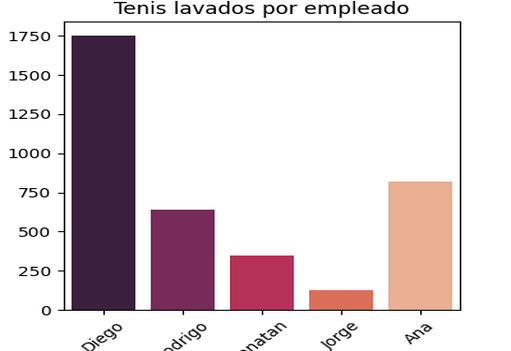
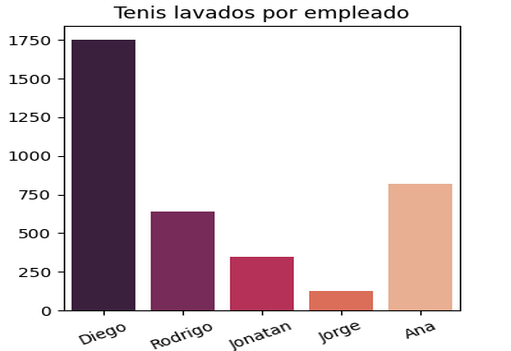
Fin

diff --git a/main.py b/main.py
@@ -381,12 +381,12 @@ class DashboardScreen(QMainWindow):
         df = pd.DataFrame(result)
         df.columns = ["Nombre", "Apellido", "TotalServicios"]
         plt.figure (figsize=(5,5))
-        plt.xticks(rotation=-45)
+        plt.xticks(rotation=-20)
         plt.title("Clientes con mas servicios")
         sns.barplot(x="Nombre", y="TotalServicios", data=df, palette="rocket")
         plt.savefig("graficas/clientes5.png")
         img = Image.open("graficas/clientes5.png")
-        img = img.crop((0, 30, 500, 500))
+        img = img.crop((0, 30, 500, 480)) #
         img = img.resize((531,250), Image.LANCZOS)
         img.save("graficas/clientes5.png")
         self.clientes_graphicsView_5.setStyleSheet("background-image: url(graficas/clientes5.png);")
@@ -637,11 +637,11 @@ class DashboardScreen(QMainWindow):
         df.columns = ["Nombre", "Total"]
         plt.figure (figsize=(4,4))
         plt.title("Tenis lavados por empleado")
-        plt.xticks(rotation = 45)
+        plt.xticks(rotation = 25)
         sns.barplot(x="Nombre", y="Total", data=df, palette="rocket")
         plt.savefig("graficas/empleados4.png")  
         img = Image.open("graficas/empleados4.png")
-        img = img.crop((0, 25, 400, 400))
+        img = img.crop((0, 20, 400, 400))
         img = img.resize((resizeGrande1,resizeGrande2), Image.LANCZOS)
         img.save("graficas/empleados4.png")
         self.empleados_graphicsView_4.setStyleSheet("background-image: url(graficas/empleados4.png);")
@@ -658,14 +658,14 @@ class DashboardScreen(QMainWindow):
         #leer lluvias.csv
         df = pd.read_csv("csv/Lluvias.csv")
         df.columns = ["Mes", "Lluvias"]
-        plt.figure (figsize=(5,5))
+        plt.figure (figsize=(5.1,5)) 
         plt.title("Lluvias")
-        plt.xticks(rotation = 45)
+        plt.xticks(rotation = 37)
         sns.lineplot(x="Lluvias", y="Mes", data=df, color="#811e5a")
         plt.savefig("graficas/empleados6.png")
         img = Image.open("graficas/empleados6.png")
-        img = img.crop((15, 30, 480,500)) #left, top, right, bottom
-        img = img.resize((461,301), Image.LANCZOS)
+        img = img.crop((20, 30, 490,500)) #left, top, right, bottom
+        img = img.resize((465,300), Image.LANCZOS) #width, height
         img.save("graficas/empleados6.png")
         self.empleados_graphicsView_6.setStyleSheet("background-image: url(graficas/empleados6.png);")
         
@@ -776,7 +776,8 @@ def verificarServicios():
 # prepareDatabase()
 # verificarServicios()
 app = QApplication(sys.argv)
-welcome = WelcomeScreen()
+ # welcome = WelcomeScreen()
+welcome = DashboardScreen()
 widget = QtWidgets.QStackedWidget()
 widget.addWidget(welcome)
 widget.show()
